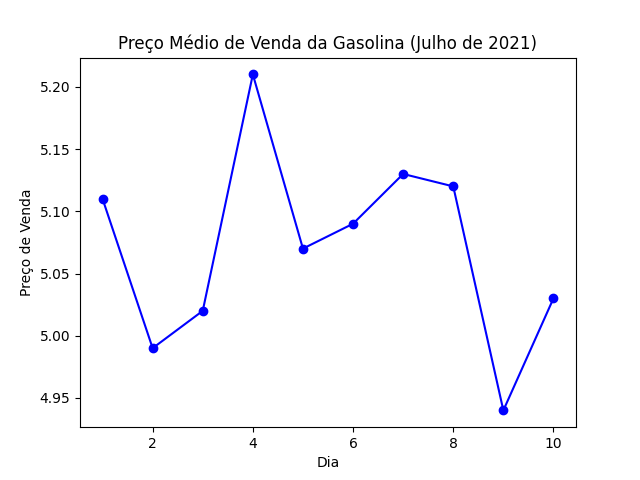
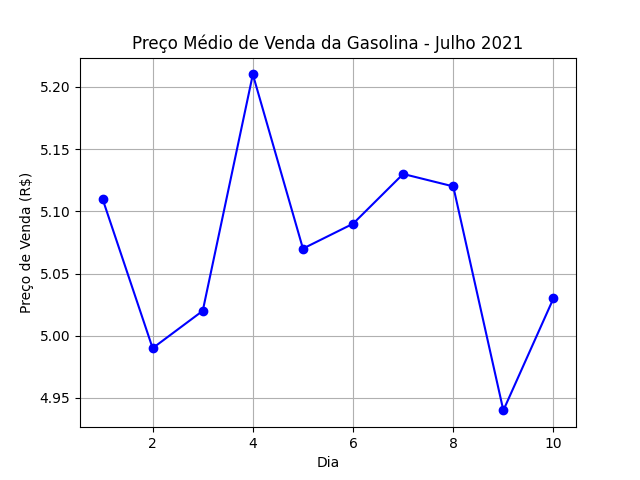
Adiciona dados e gráfico da gasolina

diff --git a/gasolina.py b/gasolina.py
@@ -1,0 +1,18 @@
+import pandas as pd
+import matplotlib.pyplot as plt
+
+# Carregar os dados do arquivo CSV
+df = pd.read_csv('gasolina.csv')
+
+# Criar o gráfico de linha
+plt.plot(df['dia'], df['venda'], marker='o', linestyle='-', color='b')
+plt.title('Preço Médio de Venda da Gasolina - Julho 2021')
+plt.xlabel('Dia')
+plt.ylabel('Preço de Venda (R$)')
+plt.grid(True)
+
+# Salvar o gráfico como gasolina.png
+plt.savefig('gasolina.png')
+
+# Exibir o gráfico (opcional)
+plt.show()
